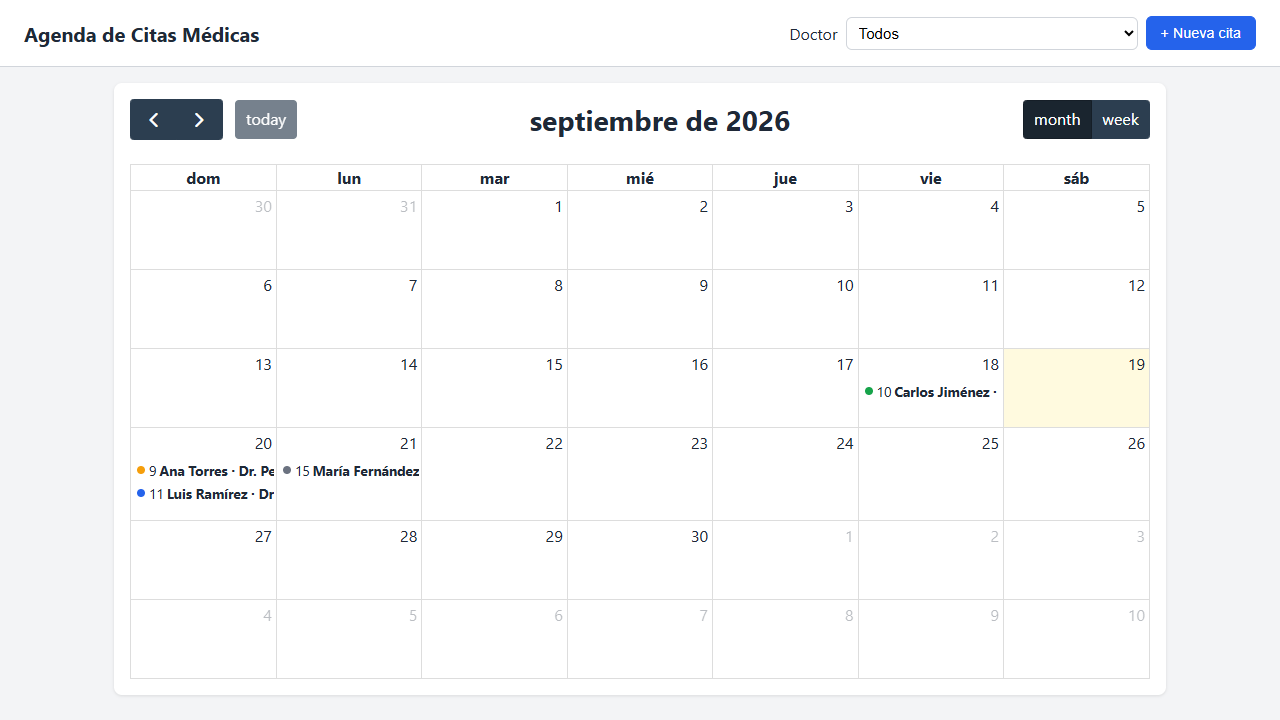
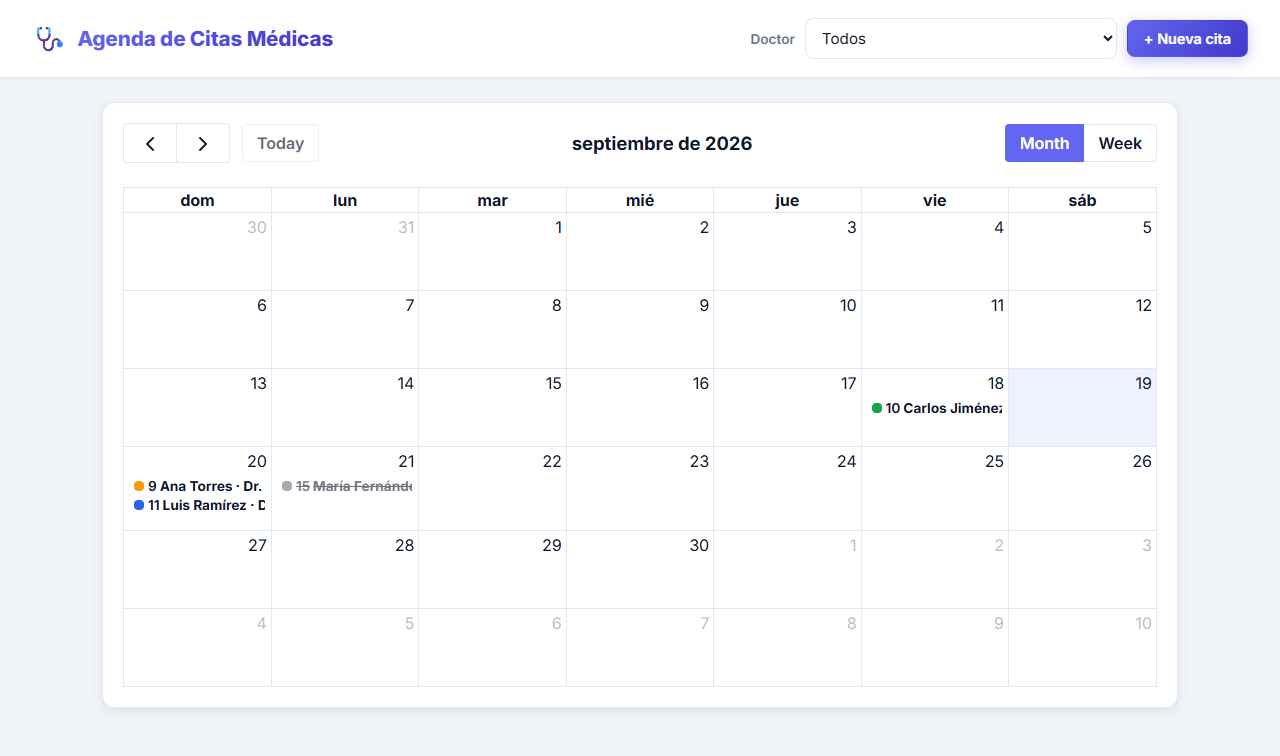
docs: actualizar capturas de evidencia con el nuevo diseno visual
Reemplaza las capturas de calendario, detalle de cita y conflicto de
horario por el estilo actual (PR de rediseno), y agrega una captura
del formulario de nueva cita.

diff --git a/EVIDENCIA.md b/EVIDENCIA.md
@@ -90,6 +90,8 @@ Todos los códigos HTTP cumplen RQNF-03: 200/201 éxito, 400 datos inválidos, 4
 
 ## 5. Interfaz — capturas de pantalla
 
+> Capturas actualizadas tras el rediseño visual (PR #6): paleta indigo/slate, tipografía Inter, botones con gradiente y badges en píldora.
+
 **Calendario mensual con eventos coloreados por estado** (RQF-02, RQF-10):
 
 ![Calendario mensual](docs/evidencia/01-calendario-mes.png)
@@ -101,6 +103,10 @@ Todos los códigos HTTP cumplen RQNF-03: 200/201 éxito, 400 datos inválidos, 4
 **Intento de crear una cita con horario en conflicto**, rechazado por el servidor y mostrado en el formulario (RQF-03, RQNF-07):
 
 ![Conflicto de horario](docs/evidencia/03-conflicto-horario.png)
+
+**Formulario de nueva cita**, con selects de paciente/doctor alimentados desde `GET /api/pacientes` y `GET /api/doctores` (RQF-01, RQF-07):
+
+![Nueva cita](docs/evidencia/04-nueva-cita.png)
 
 ## 6. Pruebas funcionales realizadas
 
